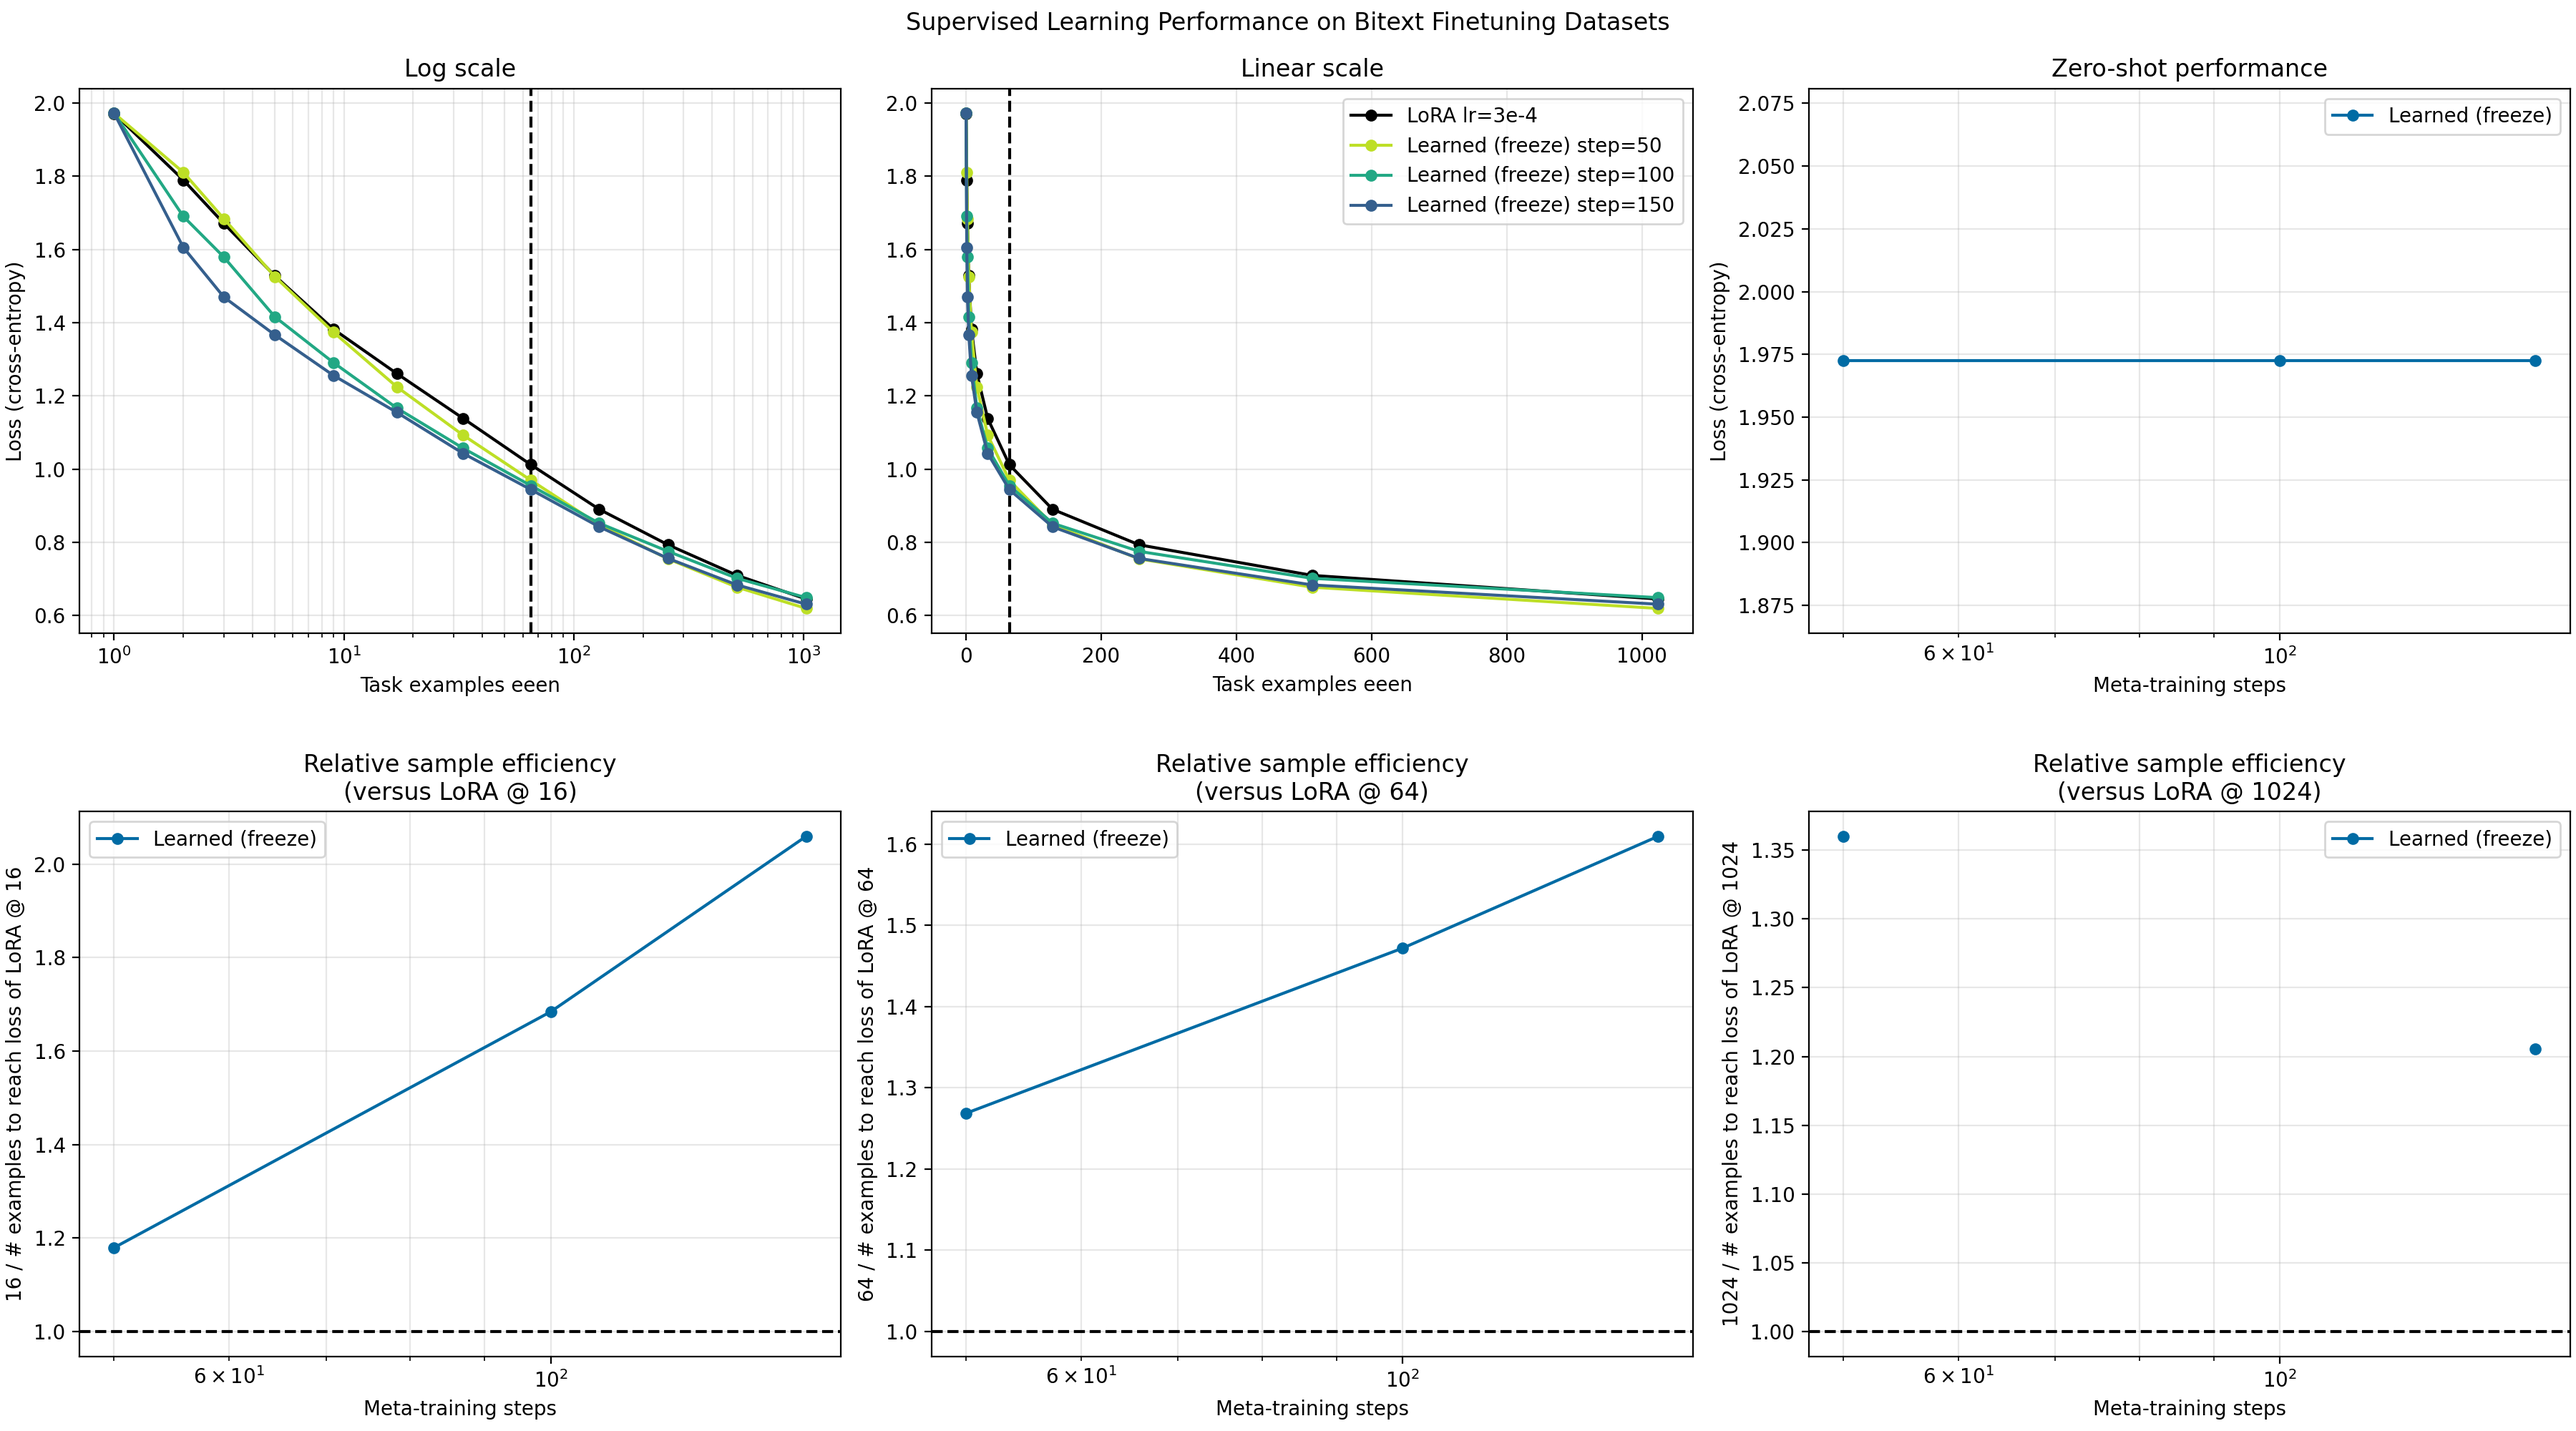
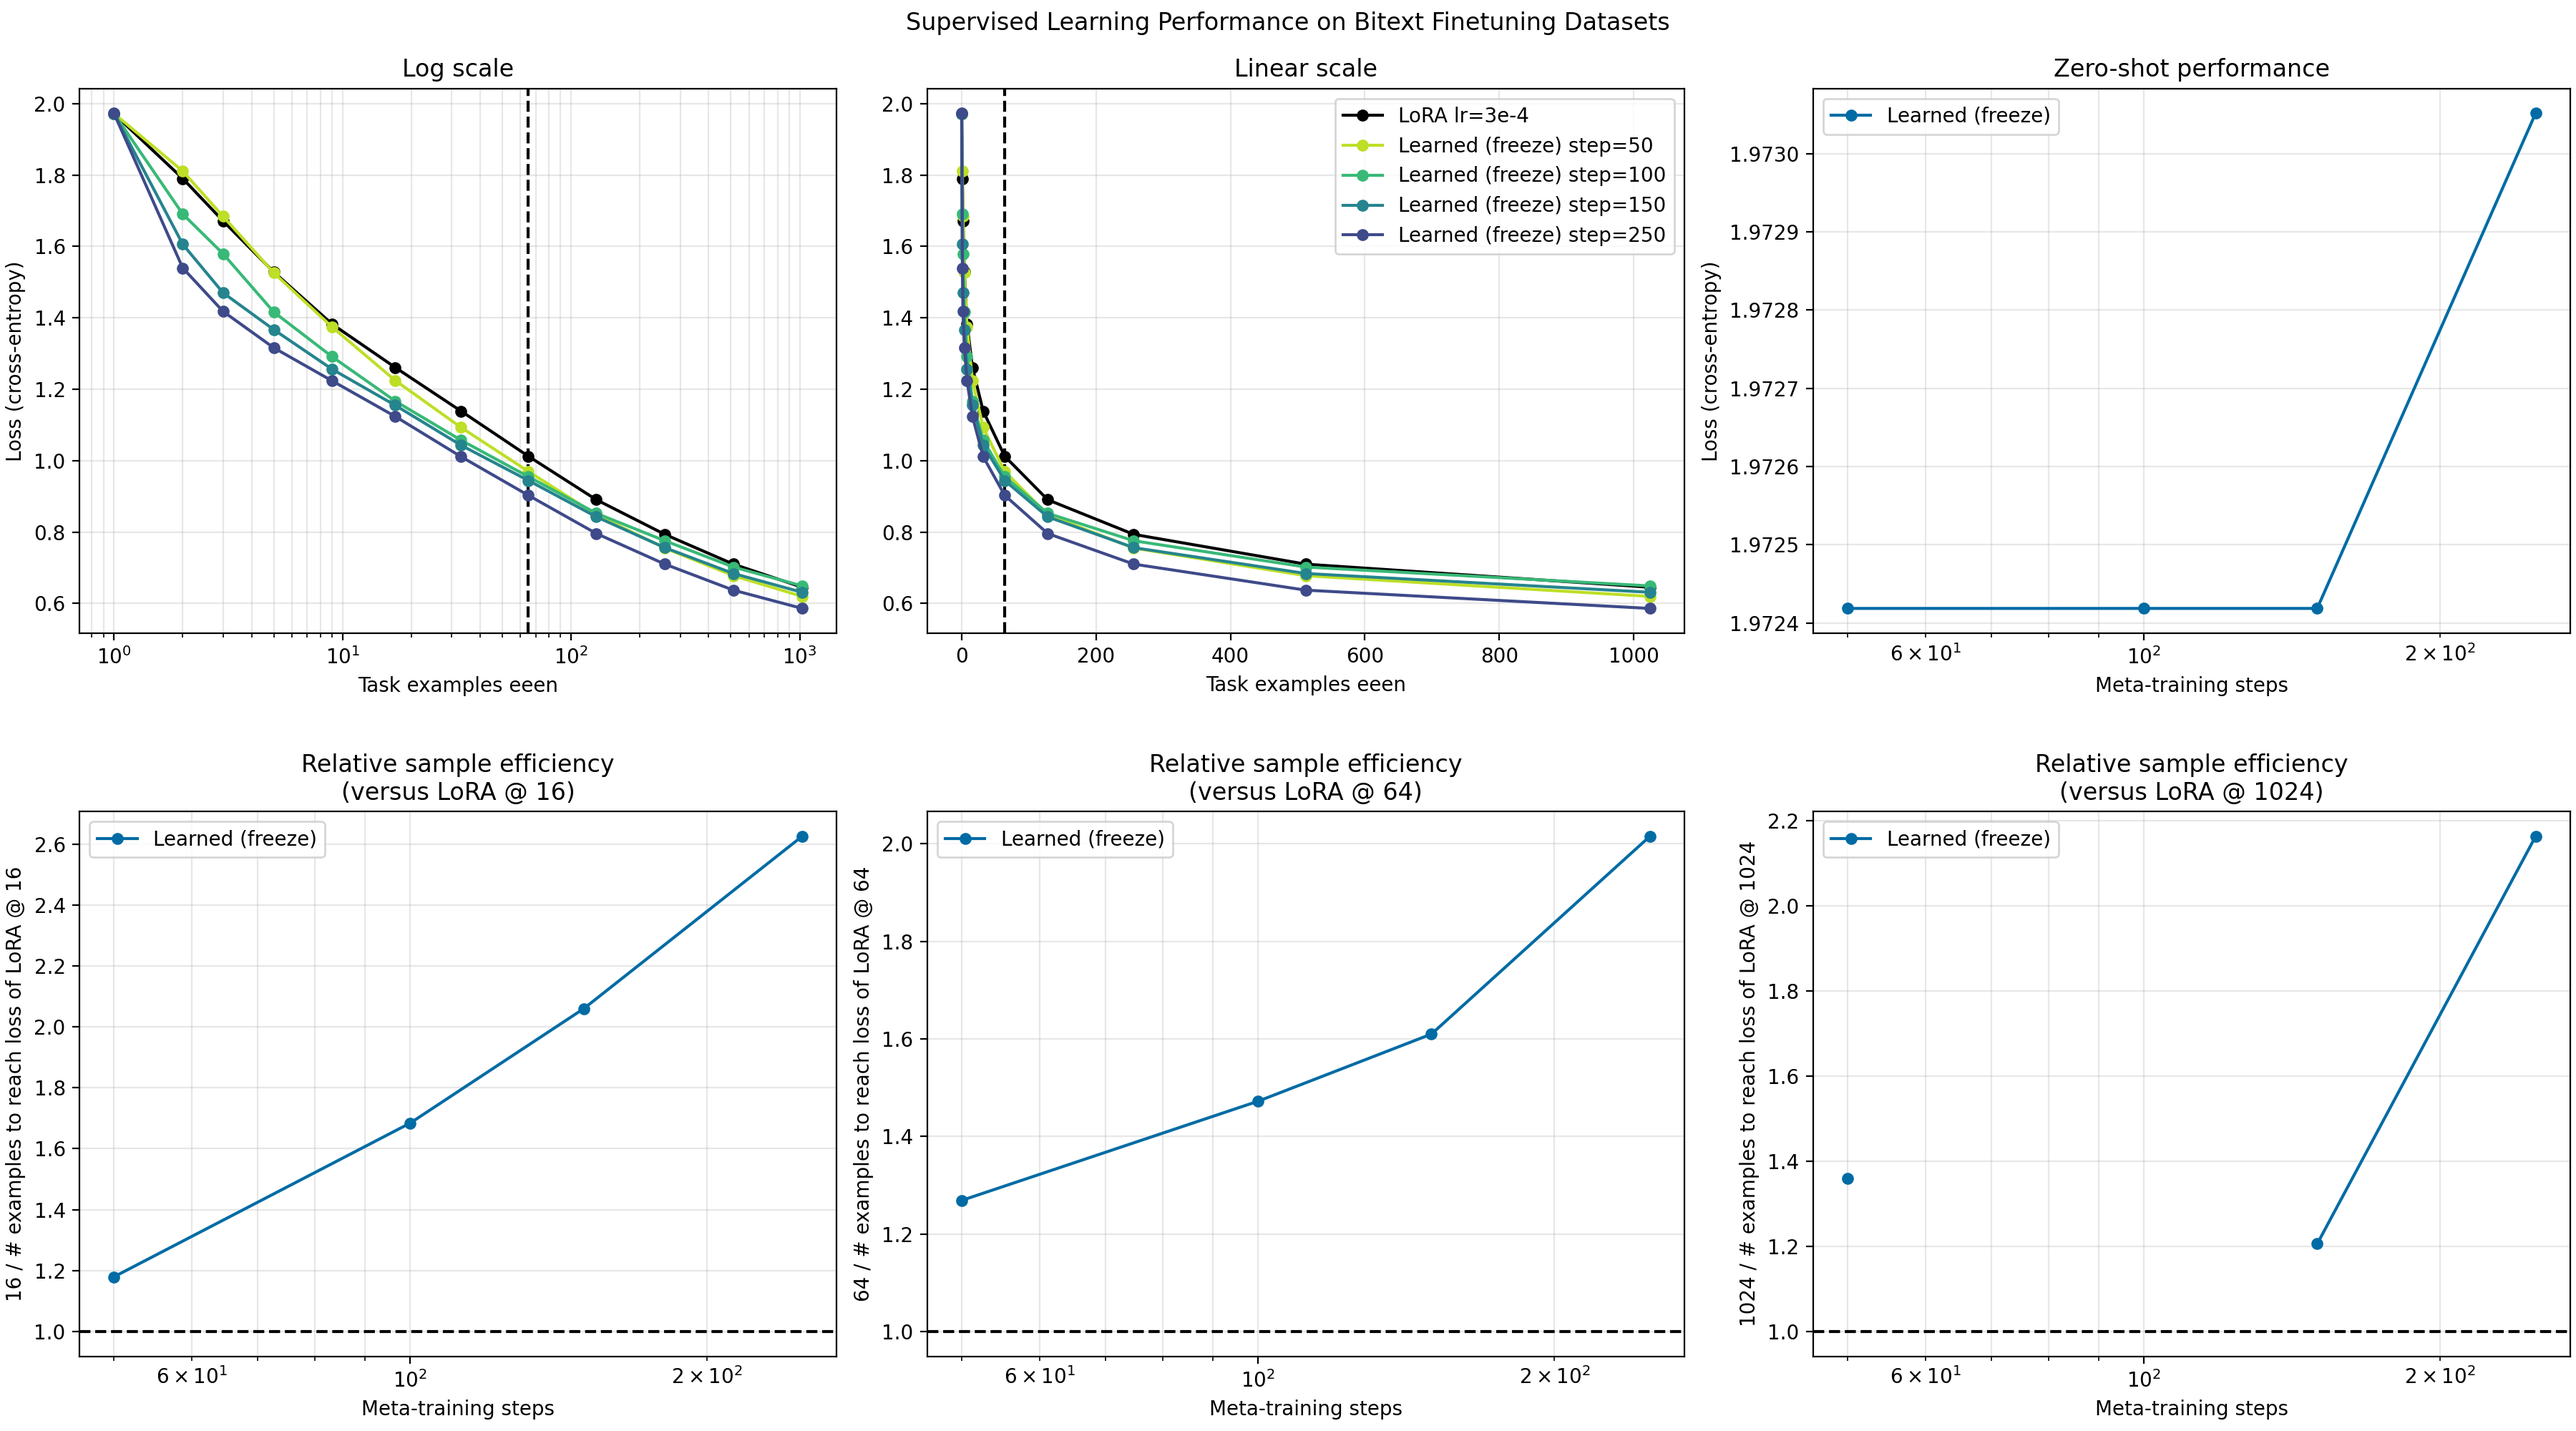
in-place

diff --git a/src/models/forte.py b/src/models/forte.py
@@ -465,13 +465,6 @@ class ForteFastWeightMLP(nn.Module):
 
 
     @torch.no_grad()
-    def _replace_grad_container(self, name: str, value: torch.Tensor) -> None:
-        value = maybe_shard_with_gradients(value.detach().requires_grad_(True))
-        value.grad = maybe_shard_with_gradients(torch.zeros_like(value))
-        setattr(self, name, value)
-
-
-    @torch.no_grad()
     def init_state(self, bs: int, device: torch.device) -> None:
 
         state = torch.zeros(
@@ -524,39 +517,34 @@ class ForteFastWeightMLP(nn.Module):
             lr = self.fast_dynamic_lr(embeddings, embedding_mask)
             state_update = -lr * update
 
-        next_state = self.state + state_update
+        self.state.add_(state_update)
 
         if mode == ForteMode.TRAIN_FIRST:
-            next_grad_buffer = self.grad_buffer + G
+            self.grad_buffer.add_(G)
         elif mode == ForteMode.TRAIN_SECOND:
-            next_grad_buffer = self.grad_buffer - G
+            self.grad_buffer.sub_(G)
         else:
             raise ValueError(f"invalid state update mode: {mode}")
 
-        self._replace_grad_container("state", next_state)
-        self._replace_grad_container("grad_buffer", next_grad_buffer)
+        self.grad_buffer.grad.zero_()
+        self.state.grad.zero_()
 
 
     @torch.no_grad()
     def finalize_state(self):
-        self._replace_grad_container(
-            "state", torch.zeros_like(self.state),
+        self.state.zero_()
+        self.final_grad_norm.copy_(
+            self.grad_buffer.norm(dim=(-2, -1))
         )
-        self._replace_grad_container(
-            "grad_buffer", self.grad_buffer
-        )
-        self.final_grad_norm = self.grad_buffer.norm(dim=(-2, -1)).detach()
+        self.grad_buffer.grad.zero_()
 
 
     @torch.no_grad()
     def empty_state(self) -> None:
-        self._replace_grad_container(
-            "state", torch.zeros_like(self.state),
-        )
-        self._replace_grad_container(
-            "grad_buffer", torch.zeros_like(self.grad_buffer),
-        )
-        self.final_grad_norm = torch.zeros_like(self.final_grad_norm)
+        self.state.zero_()
+        self.grad_buffer.zero_()
+        self.grad_buffer.grad.zero_()
+        self.final_grad_norm.zero_()
 
 
     @torch.no_grad()

diff --git a/src/plot_icl.py b/src/plot_icl.py
@@ -26,7 +26,7 @@ BASE_PATH = os.path.join(constants.LOCAL_DATA_PATH, "icl_results")
 
 COLOR_MAP = plt.get_cmap("viridis_r")
 COLORBLIND_COLORS = plt.rcParams["axes.prop_cycle"].by_key()["color"]
-NUM_GRADIENT_COLORS = 3
+NUM_GRADIENT_COLORS = 4
 _grad_index = 0
 def gradient():
     global _grad_index
@@ -103,6 +103,9 @@ RUNS = {
     },
     "aklein4--Horizon-TPU_forte-v2-freeze-1b/000000000150.json": {
         "label": "Learned (freeze) step=150", "color": gradient()
+    },
+    "aklein4--Horizon-TPU_forte-v2-freeze-1b/000000000250.json": {
+        "label": "Learned (freeze) step=250", "color": gradient()
     },
 }
 
